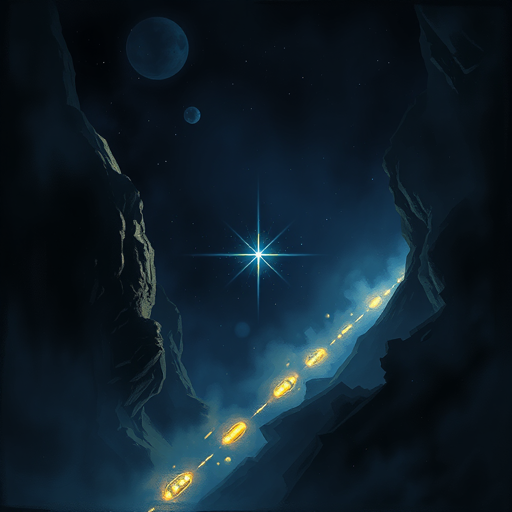
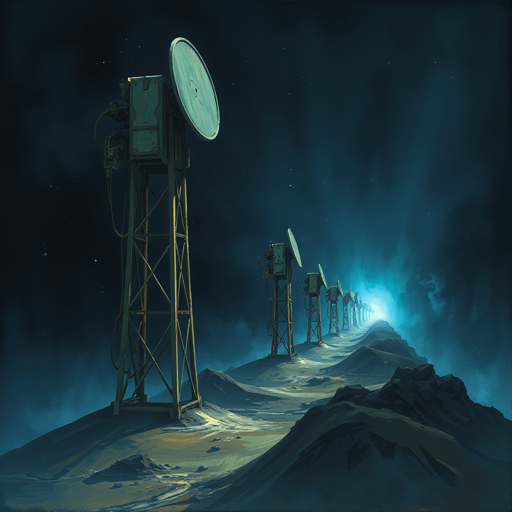
fix(art): give overworld nodes 6 and 7 a subject instead of a dark field
Backlog #13. The two nodes read as near-black at display size. The cause was
the prompts, not the generation: every other node names a lit subject against
dark space, while 6 and 7 named the dark space itself -- "faint guide-lights
... deep indigo" and "an ominous deep-purple void ... a faint unseen threat".
The generator rendered exactly what it was asked for. Turning up brightness
would not have fixed a node that has nothing in it.

The subjects come from each map's own briefing rather than being invented:

- Map 6's briefing is "Every comm relay ahead is dark." The node is now a line
  of derelict relay pylons receding down the lane toward a lit beacon.
- Map 7's briefing is "Multiple Titan-class contacts. This close to home, they
  travel in packs." The node is now a pack of armoured chitinous leviathans
  rising out of the violet dark, which is also what makes map 7 the difficulty
  cliff.

Measured at 512px, mean / p90 / fraction above mid-grey:

  node 6   27.4 /  57 / 1.50%   ->   44.8 /  84 / 3.24%
  node 7   26.5 /  43 / 0.39%   ->   62.1 / 118 / 8.22%

Node 7 now sits above the set median (55.7); node 6 sits mid-set. Both hold a
readable silhouette under the locked state's grayscale(1) brightness(0.4), which
is the condition the complaint was actually about.

Checked for the documented FLUX lettering artefact at full resolution: neither
image contains text.

62/62 assets, 983 tests green, build clean, both PNGs verified byte-identical
in dist/.

diff --git a/public/assets/overworld/PROMPTS.md b/public/assets/overworld/PROMPTS.md
@@ -56,12 +56,16 @@ should warm/darken from cool blue-greens toward ominous reds as the numbers clim
 - `overworld_5_titans_reach.png` — *Titan's Reach:* a colossal rocky spire /
   alien megastructure stabbing up into space — the campaign turning point — tense
   amber-to-violet light, monumental scale.
-- `overworld_6_deep_space_corridor.png` — *Deep Space Corridor:* a narrow
-  star-lane threading between two dark nebula walls, faint guide-lights receding
-  into distance, deep indigo.
-- `overworld_7_the_void_frontier.png` — *The Void Frontier:* an ominous deep-
-  purple void with sparse cold stars and a faint unseen threat, isolating and
-  quiet, violet darkness.
+- `overworld_6_deep_space_corridor.png` — *Deep Space Corridor:* a line of tall
+  derelict comm-relay pylons receding down a narrow star-lane between two indigo
+  nebula walls; the nearest relay looms large in frame with its dish catching a
+  bright cold cyan beacon light, the ones behind it dead and dark. Strong rim
+  light on the near relay's structure against the deep indigo lane.
+- `overworld_7_the_void_frontier.png` — *The Void Frontier:* a pack of colossal
+  armoured alien leviathans rising together out of the violet dark, their ridged
+  carapaces catching hard cold rim light from behind; the nearest one fills much
+  of the frame in silhouette, the rest receding. Menacing, monumental, the moment
+  the unseen threat becomes visible. Deep violet field, bright rim highlights.
 - `overworld_8_enemy_homeworld.png` — *Enemy Homeworld:* a hostile alien
   homeworld, glowing red-violet chitinous surface and hive spires, menacing
   crimson atmosphere — the Veth hive seat.
